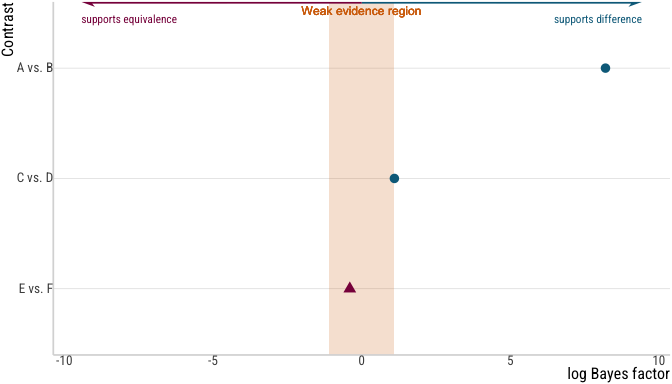
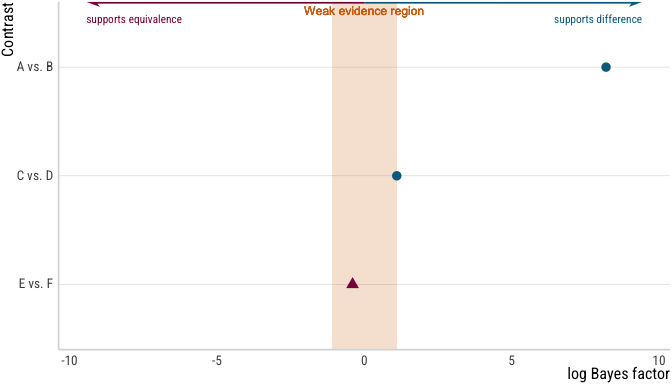
Fix dual-render figures: broken markdown output and dark-mode colors
Two issues surfaced from real use in the book/talk-template projects:

- knit_print_ggplot_dual() emitted markdown `![](path)` syntax inside raw
  <div class="light-content">/<div class="dark-content"> wrappers. Quarto
  only re-parses that markdown into a real <img> for chunks routed through
  its crossref/figure filter (a `fig-`-prefixed label with `fig-cap` set);
  an ordinary chunk left the literal "![](path)" text showing on the page
  instead of the image. Now emits raw <img> tags directly (with the same
  class/width Quarto's own figure output uses), which render correctly
  regardless of which path a chunk hits.

- .dark_mode_overlay() only set parent-level elements (axis.text,
  panel.grid, ...), relying on ggplot2 inheritance to reach the
  position-suffixed children theme_mt() itself sets explicitly
  (axis.text.x.bottom, panel.grid.major, ...). Any chunk with its own
  partial override on one of those exact elements (e.g. this book's
  `axis.text.x.bottom = element_markdown(family = "Cascadia Code")`, for
  monospace tick labels) forced ggplot2 to merge that element against the
  *active default theme* instead, keeping the light theme's colour there -
  dark, low-contrast axis text and washed-out-bright gridlines, depending
  on which axes happened to have a chunk-level override. Now sets every
  such element explicitly, matching theme_mt()'s own defensive structure.

Also, based on visual review of a real dark render composited against the
[…]

diff --git a/README.md b/README.md
@@ -91,6 +91,24 @@ violin geoms, and `vignette("bayesian-plots")` for the
 halfeye/ridge/coefficient-grid, location-scale, and Bayes Factor forest
 plot builders.
 
+## Dark mode
+
+`theme_mt(dark = TRUE)` is a dark-background variant - transparent
+plot/panel background, light text/gridline colors, and `dark_mt_colors5`
+in place of `mt_colors5` as the discrete palette - for a plot rendered
+directly against a dark page. `theme_mt()`’s regular (`dark = FALSE`)
+output is unaffected by this argument existing.
+
+In a Quarto document, `use_theme_mt()` also registers automatic dual
+light/dark figure rendering: set the `dual_render` chunk option to
+`TRUE` (per chunk, or as a project-wide
+`knitr: opts_chunk: dual_render: true` default) and every
+`ggplot`/`patchwork` figure in that chunk renders twice - once normally,
+once with the dark variant - wrapped for Quarto’s
+`.light-content`/`.dark-content` toggle, so a light/dark theme-switching
+site shows the right one without any client-side re-rendering. Chunks
+that don’t set the option are unaffected.
+
 ## Development
 
 ``` r
